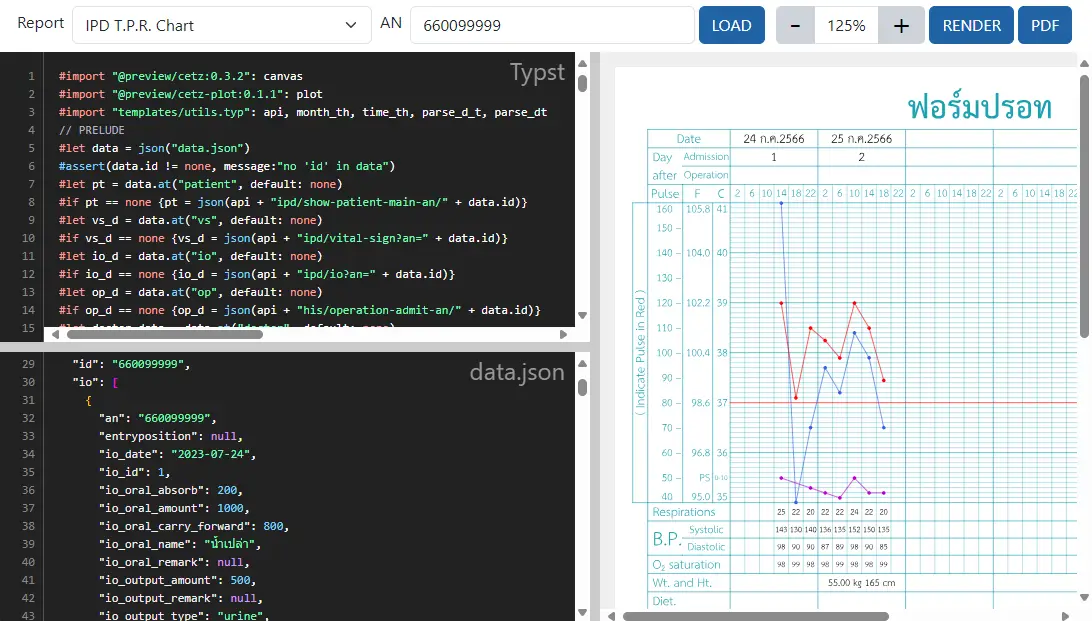
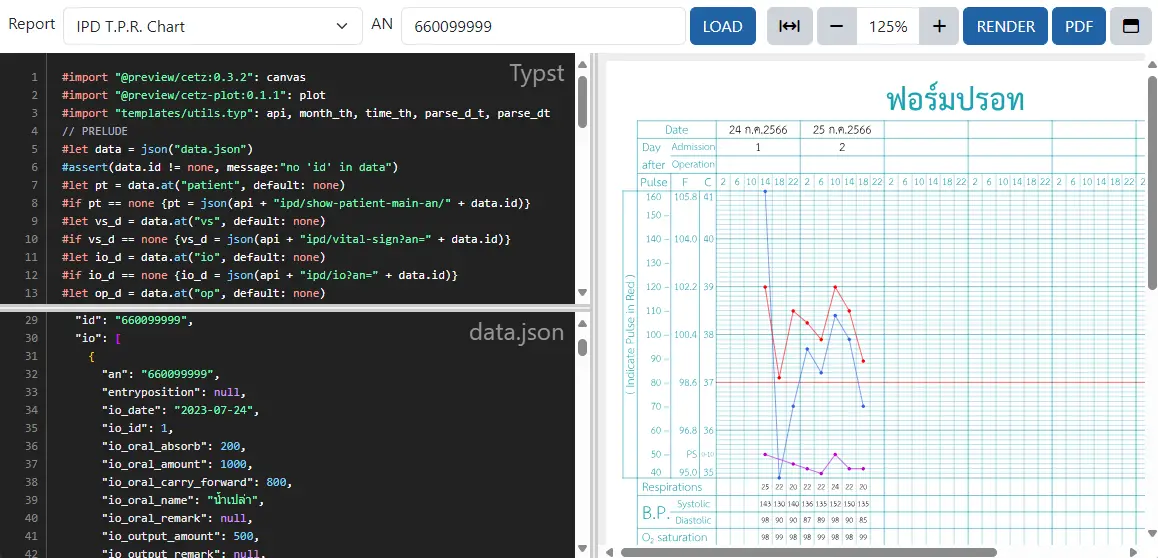
fixed report designer

Changed region(s): [[0.0, 0.0, 1.0, 1.0], [0.0, 0.7007, 0.0311, 1.0]]

diff --git a/src/extra/report-designer.md b/src/extra/report-designer.md
@@ -11,9 +11,11 @@
     * `Report` : สำหรับเลือกรายงานที่มีในระบบ
     * `ID`/`AN`/`VN` : สำหรับระบุแหล่งข้อมูล เช่น รายงานผู้ป่วยใน ใช้ AN ในการระบุแหล่งข้อมูล
     * `LOAD` : ปุ่มสำหรับเรียกข้อมูล `Report` และ `ID`/`AN`/`VN` จากเครื่องแม่ข่าย
+    * |<i class="fa fa-arrows-h"></i>| : ปุ่มสำหรับจัดตัวอย่างรายงานให้ความกว่้างเต็ม
     * `[-][100%][+]` : ปุ่มสำหรับย่อและขยายขนาดของตัวอย่างรายงาน
     * `RENDER` : ปุ่มสำหรับสร้างรายงานและแสดงบนหน้าจอ
     * `PDF` : ปุ่มสำหรับสร้างรายงาน เป็นไฟล์ PDF
+    * <i class="fa fa-window-maximize"></i> : ปุ่มสำหรับปิด/เปิดตัวอย่างรายงาน
 1. `Typst` : หน้าต่างด้าน`ซ้ายบน` สำหรับแก้ไขรายงาน ด้วยภาษา [Typst](https://typst.app/docs)
 1. `data.json` : หน้าต่างด้าน`ซ้ายล่าง` สำหรับแก้ไขชุดข้อมูล [json](https://www.json.org/)
 1. ตัวอย่างรายงาน : หน้าต่างด้าน`ขวา` สำหรับแสดงตัวอย่างรายงาน
